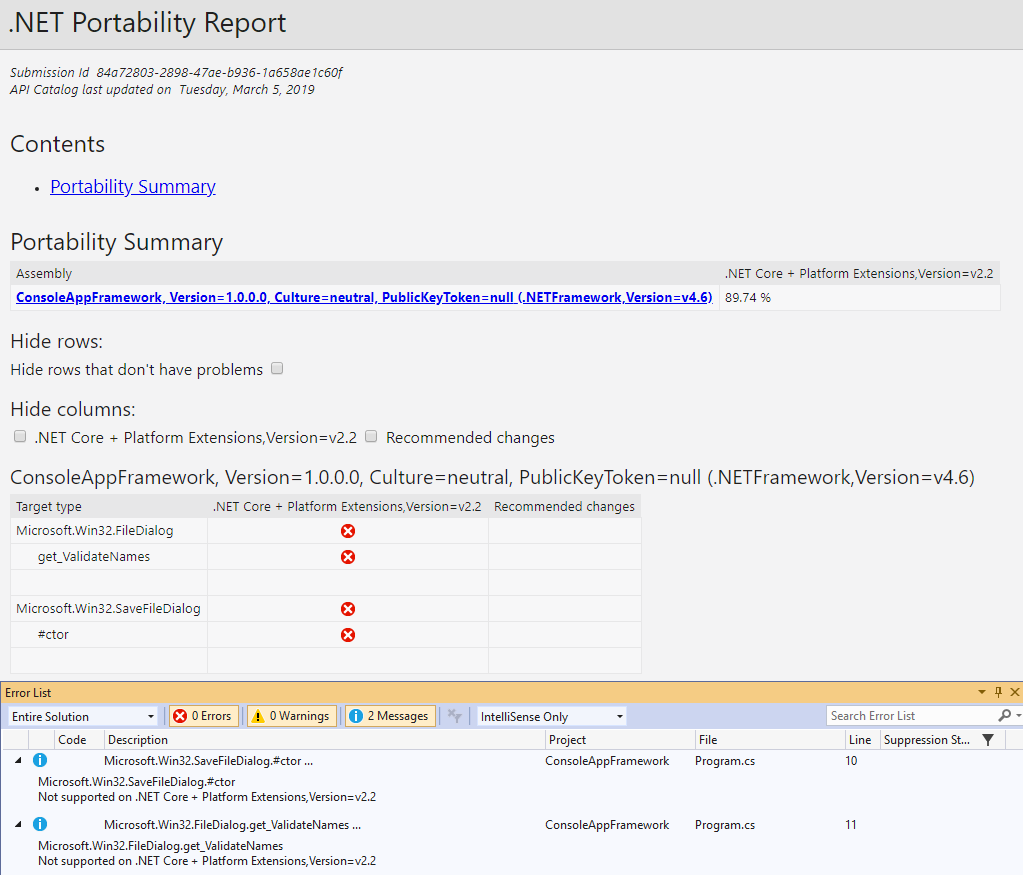
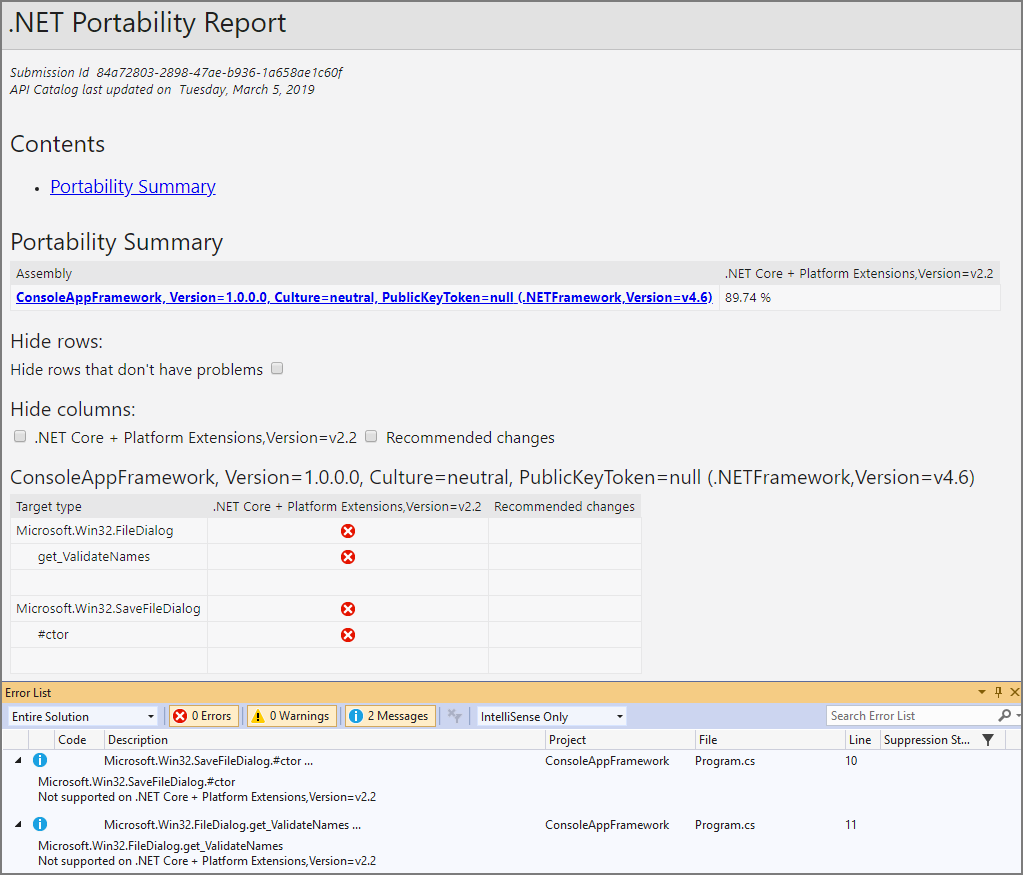
Update portability-analyzer.md (#12986)
* Update portability-analyzer.md

* Update docs/standard/analyzers/portability-analyzer.md

update windows-compat-pack link to relative link

* Update docs/standard/analyzers/portability-analyzer.md

rewording

* Update docs/standard/analyzers/portability-analyzer.md

Add space line

* Update docs/standard/analyzers/portability-analyzer.md

Rewording

* Update docs/standard/analyzers/portability-analyzer.md

Rewording

* Update docs/standard/analyzers/portability-analyzer.md

Change to relative link

* Update docs/standard/analyzers/portability-analyzer.md

Remove extra space

* Update docs/standard/analyzers/portability-analyzer.md

Change to lower case

* Update docs/standard/analyzers/portability-analyzer.md

Make sense

* Update docs/standard/analyzers/portability-analyzer.md

Thanks for the rewording

* Update docs/standard/analyzers/portability-analyzer.md

Thanks for the rewording

* Update docs/standard/analyzers/portability-analyzer.md

Suggestion make sense

* Improved the format of Details section

and a few minor fix-up

* Update ApiPort console download link

use https://aka.ms/apiportdownload download link for ApiPort console app.

* Update portability report images

* Updated portability report image links 

The previous portability image was out of date.

* Update the common target section 

to give more concrete guidance about when to use which target

* Some editing per Taylor's feedbacks

* Updated Missing assemblies section
[…]

Changed region(s): [[0.0, 0.9874, 1.0, 1.0], [0.9697, 0.0, 1.0, 0.0309], [0.0, 0.0, 0.0303, 0.0309]]

diff --git a/docs/standard/analyzers/portability-analyzer.md b/docs/standard/analyzers/portability-analyzer.md
@@ -1,41 +1,75 @@
----
+---
 title: The .NET Portability Analyzer - .NET
 description: Learn how to use the .NET Portability Analyzer tool to evaluate how portable your code is among the various .NET implementations, including .NET Core, .NET Standard, UWP, and Xamarin.
-ms.date: 04/26/2019
+ms.date: 07/10/2019
 ms.technology: dotnet-standard
 ms.assetid: 0375250f-5704-4993-a6d5-e21c499cea1e
 ---
+
 # The .NET Portability Analyzer
 
-Want to make your libraries multi-platform? Want to see how much work is required to make your application compatible with other .NET implementations and profiles, including .NET Core, .NET Standard, UWP, and Xamarin for iOS, Android, and Mac? The [.NET Portability Analyzer](https://marketplace.visualstudio.com/items?itemName=ConnieYau.NETPortabilityAnalyzer) is a tool that provides you with a detailed report on how flexible your program is across .NET implementations by analyzing assemblies. The Portability Analyzer is offered as a Visual Studio Extension and as a console app.
+Want to make your libraries support multi-platform? Want to see how much work is required to make your application compatible with other .NET implementations and profiles, including .NET Core, .NET Standard, UWP, and Xamarin for iOS, Android, and Mac? The [.NET Portability Analyzer](https://github.com/microsoft/dotnet-apiport) is a tool that provides you with a detailed report on how flexible your program is across .NET implementations by analyzing assemblies. The Portability Analyzer is offered as a [Visual Studio Extension](https://marketplace.visualstudio.com/items?itemName=ConnieYau.NETPortabilityAnalyzer), which analyzes assembly per project, and as a [ApiPort console app](https://aka.ms/apiportdownload), which analyzes assemblies by specified files or directory.
 
-## New targets
+## Common targets
 
-* [.NET Core](../../core/index.md): Has a modular design, employs side-by-side, and targets cross-platform scenarios. Side-by-side allows you to adopt new .NET Core versions without breaking other apps.
-* [ASP.NET Core](/aspnet/core): is a modern web-framework built on .NET Core thus giving developers the same benefits.
-* [Universal Windows Platform](/uwp): Improve performance of your Windows Store apps that run on x64 and ARM machines by using .NET Native’s static compilation. 
-* .NET Core + Platform Extensions: Includes the .NET Core APIs in addition to other APIs in the .NET ecosystem such as WCF, ASP.NET Core, FSharp, and Azure.
-* .NET Standard + Platform Extensions: Includes the .NET Standard APIs in addition to other .NET ecosystem such as WCF, ASP.NET Core, FSharp, and Azure.
+* [.NET Core](../../core/index.md): Has a modular design, employs side-by-side, and targets cross-platform scenarios. Side-by-side allows you to adopt new .NET Core versions without breaking other apps. If your goal is to port your app to .NET Core supporting cross-platforms, this is the recommended target. 
+* .[NET Standard](../../standard/net-standard.md): Includes the .NET Standard APIs available on all .NET implementations. If your goal is to make your library to run on all .NET supported platforms, this is recommended target.  
+* [ASP.NET Core](/aspnet/core): A modern web-framework built on .NET Core. If your goal is to port your web app to .NET Core to support multiple platforms, this is the recommended target.
+* .NET Core + [Platform Extensions](../../core/porting/windows-compat-pack.md): Includes the .NET Core APIs in addition to the Windows Compatibility Pack, which provides many of the .NET Framework available technologies. This is a recommended target for porting your app from .NET Framework to .NET Core on Windows.
+* .NET Standard + [Platform Extensions](../../core/porting/windows-compat-pack.md): Includes the .NET Standard APIs in addition to the Windows Compatibility Pack, which provides many of the .NET Framework available technologies. This is a recommended target for porting your library from .NET Framework to .NET Core on Windows.
 
-## How to use the Portability Analyzer
+## How to use the .NET Portability Analyzer
 
-To begin using the .NET Portability Analyzer, you first need to download and install the extension from the [Visual Studio Marketplace](https://marketplace.visualstudio.com/items?itemName=ConnieYau.NETPortabilityAnalyzer). It works on Visual Studio 2017 and later versions. You can configure it in Visual Studio via **Analyze** > **Portability Analyzer Settings** and select your Target Platforms.
+To begin using the .NET Portability Analyzer in Visual Studio, you first need to download and install the extension from the [Visual Studio Marketplace](https://marketplace.visualstudio.com/items?itemName=ConnieYau.NETPortabilityAnalyzer). It works on Visual Studio 2017 and later versions. You can configure it in Visual Studio via **Analyze** > **Portability Analyzer Settings** and select your Target Platforms, which is the .NET platforms/versions that you want to evaluate the portability gaps comparing with the platform/version that your current assembly is built with.
 
 ![Portability screenshot](./media/portability-analyzer/portability-screenshot.png)
 
-To analyze your entire project, right-click on your project in **Solution Explorer** and select **Analyze Assembly Portability**. Otherwise, go to the **Analyze** menu and select **Analyze Assembly Portability**. From there, select your project’s executable or DLL.
+You can also use the ApiPort console application, download it from [ApiPort repository](http://aka.ms/apiportdownload). You can use `listTargets` command option to display the available target list, then pick target platforms by specifying `-t` or `--target` command option. 
+
+### Analyze portability
+To analyze your entire project in Visual Studio, right-click on your project in **Solution Explorer** and select **Analyze Assembly Portability**. Otherwise, go to the **Analyze** menu and select **Analyze Assembly Portability**. From there, select your project’s executable or DLL.
 
 ![Portability Analyzer from Solution Explorer](./media/portability-analyzer/portability-solution-explorer.png)
 
-After running the analysis, you'll see your .NET Portability Report. Only types that are unsupported by a target platform appear in the list and you can review recommendations in the **Messages** tab in the **Error List**. You can also jump to problem areas directly from the **Messages** tab.
+You can also use the [ApiPort console app](https://aka.ms/apiportdownload). 
 
-![Portability Report](./media/portability-analyzer/portability-report.png)
+* Type the following command to analyze the current directory: `ApiPort.exe analyze -f .`
+* To analyze a specific list of .dll files, type the following command: `ApiPort.exe analyze -f first.dll -f second.dll -f third.dll`
+* Run `ApiPort.exe -?` to get more help
 
-If you don’t want to use Visual Studio, you can use the Portability Analyzer from the command prompt. Just download the API Portability Analyzer from the [Microsoft/dotnet-apiport](https://github.com/Microsoft/dotnet-apiport/releases) repository.
+It is recommended that you include all the related exe and dll files that you own and want to port, and exclude the files that your app depends on, but you don't own and can't port. This will give you most relevant portability report.  
 
-* Type the following command to analyze the current directory: `\...\ApiPort.exe analyze -f .`
-* To analyze a specific list of .dll files, type the following command: `\...\ApiPort.exe analyze -f first.dll -f second.dll -f third.dll`
+### View and interpret portability result
 
-Your .NET Portability Report is saved as an Excel file (*.xlsx*) in your current directory. The **Details** tab in the Excel Workbook contains more information.
+Only APIs that are unsupported by a Target Platform appear in the report. 
+After running the analysis in Visual Studio, you'll see your .NET Portability report file link pops up. If you used the [ApiPort console app](https://aka.ms/apiportdownload), your .NET Portability report is saved as a file in the format you specified. The default is in an Excel file (*.xlsx*) in your current directory.
+
+#### Portability Summary 
+
+![Portability Summary](./media/portability-analyzer/portabilitysummary.png)
+
+The Portability Summary section of the report shows the the portability percentage for each assembly included in the run. In the previous example, 89.74% of the .NET Framework APIs used in the `ConsoleAppFramework` app are available in .NET Core + Platform Extensions v2.2. If you run the .NET Portability Analyzer tool against multiple assemblies, each assembly should have a row in the Portability Summary report.
+
+#### Details
+
+![Portability Details](./media/portability-analyzer/portabilitydetails.png)
+
+The Details section of the report lists the APIs missing from one of the Target Platforms. 
+
+ - Target type: the type has missing API from a Target Platform 
+ - Target member: the method is missing from a Target Platform 
+ - Assembly name: the .NET Framework assembly that the missing
+   API lives in. 
+ - Each of the selected Target Platforms is one column, such as ".NET Core": "Not supported" value means the API is not
+   supported on this Target Platform. 
+ - Recommended Changes: recommended API or technology to change to. Currently, this field is empty or out of date for a lot of APIs. Due to the large number of APIs, we have big challenge to keep it up. We are looking at alternate solutions to provide helpful information to customers.
+
+#### Missing Assemblies
+
+![Portability Details](./media/portability-analyzer/missingassemblies.png)
+
+You may find a Missing Assemblies section in your report. It tells you that this list of assemblies are referenced by your analyzed assemblies and were not analyzed. If it's an assembly that you own, include it in the Api portability analyzer run so that you can get API level detailed portability report for it. If it's third party library, looks for if they have newer version supporting your target platform. If so, consider moving to the newer version. Eventually, you would expect this list includes all the third party assemblies that your app depends on and confirmed that they have a version supporting your target platform.  
 
 For more information on the .NET Portability Analyzer, visit the [GitHub documentation](https://github.com/Microsoft/dotnet-apiport#documentation) and [A Brief Look at the .NET Portability Analyzer](https://channel9.msdn.com/Blogs/Seth-Juarez/A-Brief-Look-at-the-NET-Portability-Analyzer) Channel 9 video.
+
+
